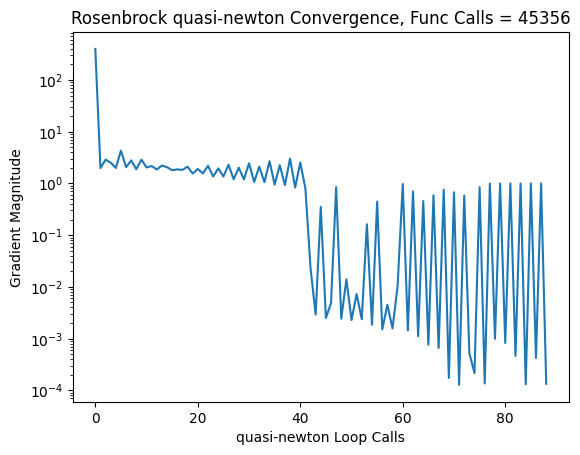
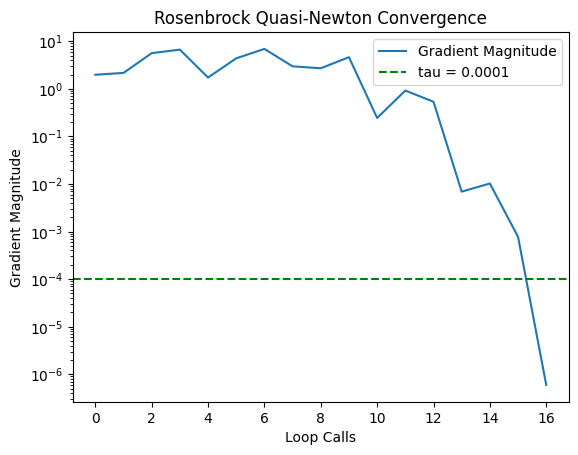
HW3 done minus writeup!

diff --git a/HW3/LineSearch3.py b/HW3/LineSearch3.py
@@ -203,7 +203,7 @@ def linesearch(directionmethod, pt0f, a_init_f, muf_1, muf_2, sigmaf, tauf, solv
         k = 0
         mems = 0
         while (np.linalg.norm(grad_tracker[-1], np.inf) > tauf):
-            grad_mag_tracker.append(np.linalg.norm(grad_tracker[-1]))
+            
             p = -grad_tracker[-1] / np.linalg.norm(grad_tracker[-1]) 
             p_tracker = np.vstack([p_tracker,p])
             if k == 0: 
@@ -228,6 +228,7 @@ def linesearch(directionmethod, pt0f, a_init_f, muf_1, muf_2, sigmaf, tauf, solv
             new_grad = grad_func(new_point)
             grad_tracker = np.vstack([grad_tracker, new_grad])
             # grad_mag_tracker.append(np.linalg.norm(grad_tracker[-1]))
+            grad_mag_tracker.append(np.linalg.norm(grad_tracker[-1]))
 
             k += 1
             mems += 1
@@ -252,7 +253,7 @@ def linesearch(directionmethod, pt0f, a_init_f, muf_1, muf_2, sigmaf, tauf, solv
         mems = 0
         reset = False
         while (np.linalg.norm(grad_tracker[-1], np.inf) > tauf):
-            grad_mag_tracker.append(np.linalg.norm(grad_tracker[-1]))
+            
             if k == 0 or reset:
                 p = -grad_tracker[-1] / np.linalg.norm(grad_tracker[-1]) 
                 p_tracker = np.vstack([p_tracker,p])
@@ -284,6 +285,7 @@ def linesearch(directionmethod, pt0f, a_init_f, muf_1, muf_2, sigmaf, tauf, solv
             act_pt_tracker = np.vstack([act_pt_tracker,new_point]) 
             new_grad = grad_func(new_point)
             grad_tracker = np.vstack([grad_tracker, new_grad])
+            grad_mag_tracker.append(np.linalg.norm(grad_tracker[-1]))
             
             k += 1
             mems += 1
@@ -312,19 +314,22 @@ def linesearch(directionmethod, pt0f, a_init_f, muf_1, muf_2, sigmaf, tauf, solv
         I = np.eye(grad_tracker[-1].shape[0])
         Vk_tracker = []
         while (np.linalg.norm(grad_tracker[-1], np.inf) > tauf):
-            grad_mag_tracker.append(np.linalg.norm(grad_tracker[-1]))
+            
             if k == 0 or reset:
                 Vk = 1. / np.linalg.norm(grad_tracker) * I
             else:
-                
+                #! matrix operations are critical
                 s = act_pt_tracker[-1] - act_pt_tracker[-2]
                 y = grad_tracker[-1] - grad_tracker[-2]
-                sigma = 1. / (s.T * y)
-                Vk = (I - sigma * s * y.T)*Vk_tracker[-1]*(I - sigma * y * s.T) + sigma * s * s.T
+                # Reshape s and y to column vectors if needed
+                s = s.reshape(-1, 1)
+                y = y.reshape(-1, 1)
+                sigma = 1.0 / (s.T @ y)  # Use matrix multiplication @
+                Vk = (I - sigma * (s @ y.T)) @ Vk_tracker[-1] @ (I - sigma * (y @ s.T)) + sigma * (s @ s.T)
                 
             Vk_tracker.append(Vk)
             p = np.dot(-Vk, grad_tracker[-1])
-            p = p / np.linalg.norm(p)
+            # p = p / np.linalg.norm(p)
             p_stpst = -grad_tracker[-1] / np.linalg.norm(grad_tracker[-1])
             if directional_deriv(act_pt_tracker[-1], p_stpst) < 0 and directional_deriv(act_pt_tracker[-1], p) > 0:
                     print("changed p from: ", p)
@@ -342,6 +347,7 @@ def linesearch(directionmethod, pt0f, a_init_f, muf_1, muf_2, sigmaf, tauf, solv
             act_pt_tracker = np.vstack([act_pt_tracker,new_point]) 
             new_grad = grad_func(new_point)
             grad_tracker = np.vstack([grad_tracker, new_grad])
+            grad_mag_tracker.append(np.linalg.norm(grad_tracker[-1]))
             
             k += 1
             mems += 1

diff --git a/HW3/HW3.py b/HW3/HW3.py
@@ -6,16 +6,16 @@
 from LineSearch3 import *
 
 #%% Practice with sphere_func
-func_calls = 0
-update_grad_func(sphere_func)
-x0 = np.array([2.,2.])
-ainit = 2.
-mu1 = 1e-6
-mu2 = 1e-1
-sigma = 2.
-tau = 1e-4 
+# func_calls = 0
+# update_grad_func(sphere_func)
+# x0 = np.array([2.,2.])
+# ainit = 2.
+# mu1 = 1e-6
+# mu2 = 1e-1
+# sigma = 2.
+# tau = 1e-4 
 
-xstar, f_xstar, blah = linesearch('conj-grad', x0, ainit, mu1, mu2, sigma, tau, sphere_func, True)
+# xstar, f_xstar, blah = linesearch('quasi-newton', x0, ainit, mu1, mu2, sigma, tau, sphere_func, True)
 
 #%% 1.4a Slanted quadratic function with Beta = 1.5
 func_calls = 0
@@ -36,13 +36,15 @@ mu2 = 1e-3
 sigma = 2.
 tau = 1e-4 
 
-xstar, f_xstar, gradmag = linesearch('conj_grad', x0, ainit, mu1, mu2, sigma, tau, slanted_quad, False)
+xstar, f_xstar, gradmag = linesearch('quasi-newton', x0, ainit, mu1, mu2, sigma, tau, slanted_quad, False)
 print("1.4a Min Point: ", xstar) #(-2,2)
 print("function calls: ", func_calls) #6, although this likely includes the initial making the derivative function too
-plt.semilogy(gradmag)
-plt.xlabel('conj_grad Loop Calls')
+plt.semilogy(gradmag, label = 'Gradient Magnitude')
+plt.axhline(y=tau, color = 'g', linestyle = '--', label = f'tau = {tau}')
+plt.xlabel('Loop Calls')
 plt.ylabel('Gradient Magnitude')
-plt.title(f'Slanted Quad conj_grad Convergence, Func Calls = {func_calls}')
+plt.legend()
+plt.title('Slanted Quad Quasi-Newton Convergence')
 
 # %%
 func_calls = 0
@@ -61,15 +63,17 @@ mu2 = 1e-1
 sigma = 2.
 tau = 1e-4 
 
-xstar, f_xstar, gradmag = linesearch('conj_grad', x0, ainit, mu1, mu2, sigma, tau, rosenbrock, False)
+xstar, f_xstar, gradmag = linesearch('quasi-newton', x0, ainit, mu1, mu2, sigma, tau, rosenbrock, False)
 print("1.4a Min Point: ", xstar) #(-2,2)
 print("function calls: ", func_calls) #6, although this likely includes the initial making the derivative function too
 #Convergence plot
 # zpts = [rosenbrock(xy) for xy in xpts]
-plt.semilogy(gradmag)
-plt.xlabel('conj_grad Loop Calls')
+plt.semilogy(gradmag, label = 'Gradient Magnitude')
+plt.axhline(y=tau, color = 'g', linestyle = '--', label = f'tau = {tau}')
+plt.xlabel('Loop Calls')
 plt.ylabel('Gradient Magnitude')
-plt.title(f'Rosenbrock conj_grad Convergence, Func Calls = {func_calls}')
+plt.legend()
+plt.title('Rosenbrock Quasi-Newton Convergence')
 
 
 # %% 1.4c Jones Function
@@ -90,13 +94,15 @@ mu2 = 1e-1
 sigma = 2.
 tau = 1e-4 
 
-xstar, f_xstar, gradmag = linesearch('conj_grad', x0, ainit, mu1, mu2, sigma, tau, jones, False)
+xstar, f_xstar, gradmag = linesearch('quasi-newton', x0, ainit, mu1, mu2, sigma, tau, jones, False)
 print("1.4a Min Point: ", xstar) #(-2,2)
 print("function calls: ", func_calls) #6, although this likely includes the initial making the derivative function too
 # Convergence Plot 
-plt.semilogy(gradmag)
-plt.xlabel('conj_grad Loop Calls')
+plt.semilogy(gradmag, label = 'Gradient Magnitude')
+plt.axhline(y=tau, color = 'g', linestyle = '--', label = f'tau = {tau}')
+plt.xlabel('Loop Calls')
 plt.ylabel('Gradient Magnitude')
-plt.title(f'Jones conj_grad Convergence, Func Calls = {func_calls}')
+plt.legend()
+plt.title('Jones Quasi-Newton Convergence')
 
 # %%
